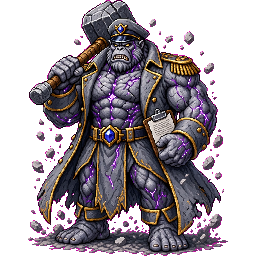
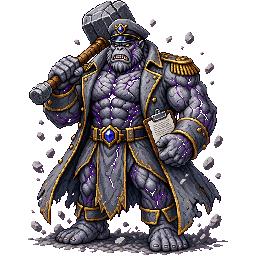
p23: polish — technique ranks in overworld fights (incl. heal/shield caps), richer overworld gold, small non-blocking toasts, clean Ruin sprite edge (dbg_demo5)

diff --git a/pkbattle.js b/pkbattle.js
@@ -17,7 +17,7 @@ const MOVE_TYPE=t=>FF.TECH[t]&&FF.TECH[t].ty?FF.TECH[t].ty:FF.KIT.Light.includes
 const PB={Body:{hp:.85,dm:.85},Force:{hp:.9,dm:.9},Light:{hp:1.18,dm:1.18},Mass:{hp:1.28,dm:1.28}};
 function moves(path,L,slots){ return ['Attack'].concat((slots||FF.STARTERS[path]).filter(t=>FF.TECH[t]).slice(0,3)); } // Attack + up to 3 slotted
 function newBattle(o){ const p=FF.PATHS[o.path], L=o.L, rng=o.rng||Math.random;
-  const GO=o.gear&&typeof o.gear==='object'?o.gear:{hp:o.gear||0,atk:o.gear||0,mat:o.gear||0}; const me={name:o.name||'You',path:o.path,em:p.em,L,mx:Math.round(PB[o.path].hp*300*Math.max(1.05,p.hp)*1.45*sc(L)*(1+(GO.hp||0))),mmp:Math.round(100*p.mp*sc(L)*(1+(GO.mp||0))),atk:Math.round(80*p.atk*sc(L)*(1+(GO.atk||0))),mat:Math.round(80*p.mat*sc(L)*(1+(GO.mat||0))),spd:p.spd+1+(GO.spd||0),shield:0,dr:0,crit:0,dodge:0,cd:{}};
+  const GO=o.gear&&typeof o.gear==='object'?o.gear:{hp:o.gear||0,atk:o.gear||0,mat:o.gear||0}; const me={name:o.name||'You',path:o.path,em:p.em,L,mx:Math.round(PB[o.path].hp*300*Math.max(1.05,p.hp)*1.45*sc(L)*(1+(GO.hp||0))),mmp:Math.round(100*p.mp*sc(L)*(1+(GO.mp||0))),atk:Math.round(80*p.atk*sc(L)*(1+(GO.atk||0))),mat:Math.round(80*p.mat*sc(L)*(1+(GO.mat||0))),spd:p.spd+1+(GO.spd||0),shield:0,dr:0,crit:0,dodge:0,cd:{},rk:o.ranks||{}};
   me.hp=Math.max(1,Math.round((o.hpFrac??1)*me.mx)); me.mp=Math.round((o.mpFrac??1)*me.mmp); me.moves=moves(o.path,L,o.slots);
   const B=o.trainer?Object.assign({},TRAINER_BEAST,{hp:REN[o.path][0],atk:REN[o.path][1]}):(o.beasts&&o.beasts.length?o.beasts:BEASTS)[Math.floor(rng()*(o.beasts&&o.beasts.length?o.beasts:BEASTS).length)], bl=Math.max(1,L+(o.lvB||0)+(o.trainer?0:Math.floor(rng()*3)-1));
   const foe={name:B.n,em:B.em,ty:B.ty,L:bl,mx:Math.round(420*B.hp*sc(bl)*(o.trainer?1:(.98+.008*(L-1)))),atk:Math.round(54*B.atk*sc(bl)*(o.trainer?1:(.98+.008*(L-1)))),spd:B.spd,mv:B.mv,slow:0}; foe.mx=Math.round(foe.mx*(globalThis.DEMO_K||1)); foe.atk=Math.round(foe.atk*(globalThis.DEMO_K||1)); foe.hp=foe.mx;
@@ -31,9 +31,9 @@ function turn(b,act){ const L=[], me=b.me, f=b.foe; b.turn++;
   const mine=()=>{ if(act.k==='run'){ b.runs++; const ch=Math.min(1,me.spd/f.spd*.55+.25*b.runs); if(b.trainer){ say("No! There's no running from a trainer battle!"); return; } if(b.rng()<ch){ say('Got away safely!'); b.over=true; b.result='run'; } else say("Can't escape!"); return; }
     if(act.k==='meditate'){ const g=Math.round(.15*me.mmp); me.mp=Math.min(me.mmp,me.mp+g); say(`${me.name} used Focus Breathing! Regained ${g} MP.`); return; }
     if(act.k==='item'){ if(!(b.bag[act.t]>0)){ say(`No ${act.t} left!`); return; } b.bag[act.t]--; if(act.t==='Healing Potion'){ const h=Math.round(.5*me.mx); me.hp=Math.min(me.mx,me.hp+h); say(`${me.name} used a Healing Potion! Recovered ${h} HP.`); } else { const m=Math.round(.3*me.mmp); me.mp=Math.min(me.mmp,me.mp+m); say(`${me.name} used a Focus Crystal! Regained ${m} MP.`); } return; }
-    const t=act.t, T=FF.TECH[t]||{pw:1,phys:1}, c=cost(b,t); if(me.mp<c){ say(`Not enough mana for ${t}!`); return; } if((me.cd[t]||0)>b.turn){ say(`${t} is still recharging!`); return; } if(T.cd) me.cd[t]=b.turn+T.cd; me.mp-=c; say(`${me.name} used ${t}!`);
-    if(T.fx==='heal'){ const h=Math.min(Math.round(.35*me.mx),Math.round(me.mat*T.pw)); me.hp=Math.min(me.mx,me.hp+h); say(`${me.name} recovered ${h} HP!`); return; }
-    if(T.fx==='shield'){ me.shield=Math.min(Math.round(.35*me.mx),Math.round(me.mat*T.pw)); say(`A radiant shield absorbs ${me.shield} damage!`); return; }
+    const t=act.t, T0=FF.TECH[t]||{pw:1,phys:1}, rk=(me.rk&&me.rk[t])||1, T=rk>1?Object.assign({},T0,{pw:(T0.pw||1)*(1+.15*(rk-1))}):T0, c=cost(b,t); if(me.mp<c){ say(`Not enough mana for ${t}!`); return; } if((me.cd[t]||0)>b.turn){ say(`${t} is still recharging!`); return; } if(T.cd) me.cd[t]=b.turn+T.cd; me.mp-=c; say(`${me.name} used ${t}${rk>1?' (rank '+rk+')':''}!`);
+    if(T.fx==='heal'){ const h=Math.min(Math.round(.35*me.mx*(1+.15*(rk-1))),Math.round(me.mat*T.pw)); me.hp=Math.min(me.mx,me.hp+h); say(`${me.name} recovered ${h} HP!`); return; }
+    if(T.fx==='shield'){ me.shield=Math.min(Math.round(.35*me.mx*(1+.15*(rk-1))),Math.round(me.mat*T.pw)); say(`A radiant shield absorbs ${me.shield} damage!`); return; }
     if(T.fx==='dr'){ me.dr=3; say(`${me.name}'s skin turned to stone!`); return; } if(T.fx==='regen'){ me.regen=3; me.regenAmt=Math.round(me.mat*T.pw); say(`${me.name} draws strength from the earth!`); return; }
     if(T.fx==='crit'){ me.crit=1; say(`${me.name} is focusing on a weak point!`); return; } if(T.fx==='dodge'||T.fx==='dodge25'){ me.dodge=1; say(`${me.name}'s form flows like water!`); return; }
     const ty=MOVE_TYPE(t), r=dmgTo(b,T.phys||t==='Attack'?me.atk:me.mat,T.pw||1,ty,f.ty); let d=Math.round(r.d*PB[me.path].dm); if(me.crit&&(T.phys||t==='Attack')){ d*=2; me.crit=0; r.crit=1; }
@@ -72,13 +72,13 @@ if(typeof document!=='undefined'){
  function grid(items,sel){ return `<div class=pkm>${items.map((it,i)=>`<div class="pki ${i===cur?'on':''}" onclick="PK._tap(${i})">${i===cur?'▶':'&nbsp;'}${it}</div>`).join('')}</div>`; }
  function showMain(){ menu='main'; cur=Math.min(cur,3); $('#pkt').innerHTML=`<div class=pktx2>What will<br>${b.me.name} do?</div>`+grid(MAIN); }
  function showMoves(){ menu='moves'; const ms=b.me.moves; cur=Math.min(cur,ms.length-1); const t=ms[cur];
-  $('#pkt').innerHTML=grid(ms.map(m=>m.replace('Combat Insight','Insight').replace('Afterimage Stance','Afterimage')))+`<div class=pkinfo>TYPE/ ${api.MOVE_TYPE(t)}<br>MP ${api.cost(b,t)}/${b.me.mp}</div>`; }
+  $('#pkt').innerHTML=grid(ms.map(m=>m.replace('Combat Insight','Insight').replace('Afterimage Stance','Afterimage')))+`<div class=pkinfo>TYPE/ ${api.MOVE_TYPE(t)}${(b.me.rk&&b.me.rk[t]||1)>1?' · R'+b.me.rk[t]:''}<br>MP ${api.cost(b,t)}/${b.me.mp}</div>`; }
  function showItems(){ menu='items'; const ks=['Healing Potion','Focus Crystal']; cur=Math.min(cur,1); $('#pkt').innerHTML=grid(ks.map(k=>k+' ×'+(b.bag[k]||0))); }
  function choose(i){ if(menu==='main'){ cur=i; if(i===0){ cur=0; return showMoves(); } if(i===1){ cur=0; return showItems(); } if(i===2) return act({k:'meditate'}); return act({k:'run'}); }
   if(menu==='moves'){ const t=b.me.moves[i]; if(!t) return; if(b.me.mp<api.cost(b,t)){ cur=i; return showMoves(); } return act({k:'move',t}); }
   if(menu==='items'){ const k=['Healing Potion','Focus Crystal'][i]; if(!(b.bag[k]>0)) return; return act({k:'item',t:k}); } }
  function act(a){ cur=0; menu='text'; push(api.turn(b,a)); }
- function A(){ if(menu==='text') return next(); choose(cur); }
+ function A(){ if(!document.querySelector('#pkt')) return; if(menu==='text') return next(); choose(cur); }
  function Bk(){ if(menu==='moves'||menu==='items'){ cur=0; showMain(); } else if(menu==='text') next(); }
  function pad(d){ if(menu==='text') return; const n=menu==='main'?4:menu==='moves'?b.me.moves.length:2; const m={left:-1,right:1,up:-2,down:2}[d]; const c=cur+m; if(c>=0&&c<n) cur=c; menu==='main'?showMain():menu==='moves'?showMoves():showItems(); }
  function finish(){ if(b.rewarded){ menu='done'; return api.onExit&&api.onExit(b); } b.rewarded=1; const extra=cb(b)||[]; q.push(...extra.map(t=>({t}))); menu='text'; next(); }

diff --git a/demo.js b/demo.js
@@ -3,7 +3,7 @@
 // Demo compression: each Meditate ends one in-game day (Mon–Fri), Saturday is boss day, so the whole "month" fits in 1–3 hours.
 (function(root){
 const GR=root.GEAR||(typeof require!=='undefined'?require('./gear.js'):null);
-const K=0.7, REALMS=['Qi Gathering','Foundation','Core','Nascent'], SAVE='dbg_demo4';
+const K=0.7, REALMS=['Qi Gathering','Foundation','Core','Nascent'], SAVE='dbg_demo5';
 const WEEKS=[{realm:'Qi Gathering',mode:'world',label:'Explore the overworld',hint:'Win wild-beast battles (40 XP each) or beat Scout Ren.',why:'A cultivator without Qi is just a donor. Every beast you beat is strength the Collective can’t requisition.'},
  {realm:'Foundation',mode:'htl',label:'Hold the Line',hint:'Clear 2 waves (50 XP each).',why:'The Collective is marching on Sect Town. The Gate is the only thing between the refugees and the next Five-Year Plan.'},
  {realm:'Core',mode:'sect',label:'Sect Conquest',hint:'Win 2 squad battles (50 XP each).',why:'Every sect you free is one less army under a red banner when the final war comes.'},
@@ -81,7 +81,7 @@ const TUT={hub:['🏯 <b>Your sect, day by day</b>','Each realm is one week: fiv
  nas:['🗺 <b>The War for the Map</b>','Tap your hex, then an adjacent gray or rival hex to attack. End Attacks to move troops, then End Turn.','Daily XP: play 2 rounds. When the last gray hex falls, rivals can keep fighting each other until Saturday.','On Saturday the board closes and all four of you face Comrade Ruin until he falls.']};
 function tut(k,force){ const d=D(); if(!d) return; d.tut=d.tut||{}; if(!force&&d.tut[k]) return; const T=TUT[k]; if(!T) return; pop(`<div style="font-size:19px;margin-bottom:6px">${T[0]}</div><ul>${T.slice(1).map(x=>`<li>${x}</li>`).join('')}</ul>`,()=>{ d.tut[k]=1; save(); }); }
 function pop(html,done){ const o=document.createElement('div'); o.id='dtut'; o.innerHTML=`<div class=dtc>${html}<button class=dgo id=dtok>Got it</button></div>`; const old=$('#dtut'); if(old) old.remove(); document.body.appendChild(o); o.querySelector('#dtok').addEventListener('click',()=>{ o.remove(); done&&done(); }); }
-function toast(t){ const o=document.createElement('div'); o.className='dtoast'; o.textContent=t; document.body.appendChild(o); setTimeout(()=>o.remove(),1800); }
+function toast(t){ document.querySelectorAll('.dtoast').forEach(x=>x.remove()); const o=document.createElement('div'); o.className='dtoast'; o.textContent=t; document.body.appendChild(o); setTimeout(()=>o.remove(),1400); }
 const MODEN={world:'Overworld',htl:'Hold the Line',sect:'Sect Conquest',nas:'War for the Map'};
 function barText(){ const d=D(), c=st.c, live=d.playing===curMode(), g=st.qi.gold; let t=`${DAYS[Math.min(5,d.d)]} · Wk ${d.week+1}/4 · ${c.realm} ${c.level} · 💰 ${g}g · `;
  if(mode==='nas'){ const G=st.nas2; return t+(G?(G.ruinFell?'⚔ Rivals’ war':'Gray hexes '+G.hex.filter(h=>h.o===4).length)+` · Rounds today ${Math.max(0,G.round-(d.nasR0||1))}/2`:''); }
@@ -123,7 +123,7 @@ body.demo .hrow,body.demo #app>.row:first-child,body.demo #app>.big:first-child{
 #dq{position:fixed;top:8px;right:8px;z-index:100000;width:44px;height:44px;border-radius:22px!important;background:#fc6!important;color:#222!important;font-size:22px;padding:0;margin:0;box-shadow:0 2px 8px #0008}
 #dtut{position:fixed;inset:0;background:#000b;z-index:100001;display:flex;align-items:center;justify-content:center;padding:16px}.dtc{background:linear-gradient(135deg,#1d2433,#2a1f33);border:2px solid #fc6;border-radius:14px;padding:16px;color:#eee;max-width:380px;font-size:15px;line-height:1.45;max-height:90vh;overflow:auto}.dtc ul{padding-left:18px;margin:6px 0 10px}.dtc li{margin:5px 0}
 .dsl{display:flex;justify-content:space-between;align-items:center;gap:6px;background:#222838;border-radius:8px;padding:6px 8px;margin:3px 0;color:#eee}.dbuy{background:#2a7!important;color:#fff!important;min-width:96px;font-size:15px}.dbuy:disabled{background:#444!important;color:#999!important}.dsell{background:#a63!important}
-.dtoast{position:fixed;left:50%;bottom:28px;transform:translateX(-50%);background:#2a7;color:#fff;padding:10px 16px;border-radius:20px;z-index:100002;font-weight:700;box-shadow:0 3px 10px #000a}
+.dtoast{position:fixed;left:50%;transform:translateX(-50%);top:calc(6px + env(safe-area-inset-top));max-width:60vw;background:#1f6f4acc;color:#fff;padding:4px 10px;border-radius:12px;z-index:100002;font:600 12px system-ui;box-shadow:0 2px 6px #0007;pointer-events:none;white-space:nowrap;overflow:hidden;text-overflow:ellipsis;animation:dtin .2s}@keyframes dtin{from{opacity:0}}
 .pd{position:relative;height:330px;background:radial-gradient(circle at 50% 45%,#2c3550,#141826);border-radius:14px;margin:6px 0;border:1px solid #445}.pd .sil{position:absolute;left:50%;top:50%;transform:translate(-50%,-50%);height:210px;opacity:.95}
 .ps{position:absolute;width:31%;min-height:58px;background:#1a1f2ecc;border:2px solid #556;border-radius:10px;padding:4px 5px;font-size:11px;color:#ddd;text-align:center;line-height:1.2;min-width:0}.ps b{display:block;font-size:10px;color:#9ab;letter-spacing:1px;text-transform:uppercase}.ps.sel{box-shadow:0 0 0 3px #fc6}
 .bg{display:grid;grid-template-columns:repeat(4,1fr);gap:5px}.bg div{background:#222838;border:2px solid #445;border-radius:8px;min-height:60px;padding:4px;font-size:10.5px;color:#ddd;text-align:center;line-height:1.15;word-break:break-word}.bg .sel{box-shadow:0 0 0 3px #fc6}.bg .ic{font-size:20px;display:block}

diff --git a/index.html b/index.html
@@ -18,7 +18,7 @@ input,select,textarea{font-size:16px;padding:6px;width:100%;box-sizing:border-bo
 .row{display:flex;flex-wrap:wrap;align-items:center}.big{font-size:22px;font-weight:bold}h2{margin:6px 0}
 .nsb{background:radial-gradient(circle at 30% 20%,#2b2f3d,#12141b 70%),repeating-linear-gradient(45deg,#0000 0 6px,#ffffff05 6px 7px);border-radius:10px;padding:6px;color:#eee;user-select:none;-webkit-user-select:none;touch-action:manipulation}.nhud{font:13px sans-serif;padding:4px 2px}.nmap{position:relative}.nban{position:absolute;left:8%;right:8%;top:40%;text-align:center;background:#000c;color:#fff;font:bold 18px sans-serif;padding:8px;border-radius:20px}.nbar{display:flex;align-items:center;gap:6px;background:#0008;border-radius:20px;padding:6px 8px;margin-top:4px}.nmsg{flex:1;font:14px sans-serif}.npill{border-radius:20px;padding:8px 14px;margin:0;background:#ff8fb8;color:#111;font-weight:bold;border:0}.nmob{background:#c9a3ff}.nsum{font:12px sans-serif;padding:6px 2px}</style></head><body><div id="app"></div>
 <script src="logic.js"></script><script src="nascent.js"></script><script src="htl2.js"></script><script src="ff.js"></script><script src="pkbattle.js"></script><script src="world.js"></script><script src="weekend.js"></script><script src="wkui.js"></script><script src="gear.js"></script><script src="spr.js"></script><script src="demo.js"></script><script>
-const $=s=>document.querySelector(s); let showCov=true, aa=null, G=null; let SKEY=location.hash==='#demo'?'dbg_demo4':'dbg_p1'; let st=JSON.parse(localStorage.getItem(SKEY)||'null')||{c:null,rounds:[]};  let w=null, sel=null, timerI=null;
+const $=s=>document.querySelector(s); let showCov=true, aa=null, G=null; let SKEY=location.hash==='#demo'?'dbg_demo5':'dbg_p1'; let st=JSON.parse(localStorage.getItem(SKEY)||'null')||{c:null,rounds:[]};  let w=null, sel=null, timerI=null;
 const save=()=>localStorage.setItem(SKEY,JSON.stringify(st));
 function log(lines){ st.c.log=(st.c.log||[]).concat(lines).slice(-80); save(); }
 function view(h){ $('#app').innerHTML=h; }
@@ -250,9 +250,9 @@ function worldOpen(){ st.world=st.world||{}; const maps=st.demo?Demo.maps():['to
 function worldMap(m){ if(st.world.map===m) return; World.stop(); st.world={map:m,beaten:st.world.beaten,pk:st.world.pk}; save(); worldOpen(); }
 function worldBattle(kind,npcId){ const q=qiState(), c=st.c, s=st.world, path=FF.ROLE2PATH[c.role]||'Body', pk=s.pk||[1,1];
  view(`<div id=pkv></div>`);
- PK.start($('#pkv'),{name:c.name||'You',path,L:c.level,trainer:kind==='trainer',hpFrac:pk[0]>0?pk[0]:1,mpFrac:pk[1],bag:q.bag,gear:st.demo?Demo.gx():(q.gear?q.gear.bonus:0),slots:q.slots,beasts:kind==='trainer'?null:World.map.beasts,lvB:World.map.lvB||0},b=>{
+ PK.start($('#pkv'),{ranks:st.demo?Demo.ranks():null,name:c.name||'You',path,L:c.level,trainer:kind==='trainer',hpFrac:pk[0]>0?pk[0]:1,mpFrac:pk[1],bag:q.bag,gear:st.demo?Demo.gx():(q.gear?q.gear.bonus:0),slots:q.slots,beasts:kind==='trainer'?null:World.map.beasts,lvB:World.map.lvB||0},b=>{
   q.bag=Object.assign({},b.bag); s.pk=[b.me.hp/b.me.mx,b.me.mp/b.me.mmp]; const lines=[];
-  if(b.result==='win'){ const xp=Math.max(0,Math.min(40,DBG.XP_GOAL-c.xpToday)), gold=Math.round((b.trainer?8+Math.floor(Math.random()*5):2+Math.floor(Math.random()*3))*(st.demo?3*(1+(st.c.realmIdx||0)):1));
+  if(b.result==='win'){ const xp=Math.max(0,Math.min(40,DBG.XP_GOAL-c.xpToday)), gold=st.demo?Math.round((b.trainer?40+Math.floor(Math.random()*11):16+Math.floor(Math.random()*9))*(1+(st.c.realmIdx||0))):(b.trainer?8+Math.floor(Math.random()*5):2+Math.floor(Math.random()*3));
    c.xpToday+=xp; q.gold+=gold; lines.push(xp?`${c.name||'You'} gained ${xp} XP!`:'Daily XP goal already met.'); lines.push(`Got ${gold} gold!`);
    if(Math.random()<.3||b.trainer){ const m=b.foe.name+' '+(b.trainer?'Banner Fang':['Pelt','Core','Scale','Feather'][Math.floor(Math.random()*4)]); q.inv.push({k:'material',n:m,val:(b.trainer?20:6)*(1+(World.map.lvB||0))}); lines.push(`Found ${m}! (sell it in the Shop)`); }
    if(xp&&c.xpToday>=DBG.XP_GOAL) lines.push('Daily XP goal reached! Meditate to grow your Qi.');
@@ -263,6 +263,6 @@ function worldBattle(kind,npcId){ const q=qiState(), c=st.c, s=st.world, path=FF
   ()=>worldOpen()); }
 
 function wkStart(x){ const c=st.c||{}; WKUI.open({...(x||{}),path:FF.ROLE2PATH[c.role]||'Body',name:c.name||'You',slots:st.qi&&st.qi.slots,back:()=>{ if(location.hash==='#weekend') history.replaceState(null,'',location.pathname); st.c?day():create(); }}); }
-if(SKEY==='dbg_demo4'&&!st.demo) st.demo=Demo.init(); if(st.demo) globalThis.DEMO_K=Demo.K;
+if(SKEY==='dbg_demo5'&&!st.demo) st.demo=Demo.init(); if(st.demo) globalThis.DEMO_K=Demo.K;
 location.hash==='#weekend'?(st.c?day():create(),wkStart()):st.c?(location.hash==='#nascent'?nasStart():day()):create();
 </script></body></html>

diff --git a/ff.js b/ff.js
@@ -80,8 +80,8 @@ function act(b){ // executes next queued action; returns {actor, line, ev:[{id,t
         if(T.fx==='mana'){ const g=Math.round(.15*u.mmp); u.mp=Math.min(u.mmp,u.mp+g); ev.push({id:u.id,txt:'+'+g+' MP',c:'#6cf'}); }
         else if(T.fx==='crit'){ u.crit=1; line+=' (next Fight crits)'; } else if(T.fx==='dodge'){ u.dodge=1; } else if(T.fx==='dodge25'){ u.dodge25=2; }
         else if(T.tg==='ally'){ const t=retarget(b,u,c.tgt,0);
-          if(T.fx==='shield'){ t.shield=Math.min(Math.round(.35*t.mx),Math.round(u.mat*T.pw)); ev.push({id:t.id,txt:'Shield '+t.shield,c:'#ff6'}); }
-          if(T.fx==='heal'){ const h=Math.min(Math.round(.35*t.mx),Math.round(u.mat*T.pw)); t.hp=Math.min(t.mx,t.hp+h); const mm=Math.round(h*.25); t.mp=Math.min(t.mmp,t.mp+mm); ev.push({id:t.id,txt:'+'+h,c:'#6f6'}); }
+          if(T.fx==='shield'){ t.shield=Math.min(Math.round(.35*t.mx*RK),Math.round(u.mat*T.pw)); ev.push({id:t.id,txt:'Shield '+t.shield,c:'#ff6'}); }
+          if(T.fx==='heal'){ const h=Math.min(Math.round(.35*t.mx*RK),Math.round(u.mat*T.pw)); t.hp=Math.min(t.mx,t.hp+h); const mm=Math.round(h*.25); t.mp=Math.min(t.mmp,t.mp+mm); ev.push({id:t.id,txt:'+'+h,c:'#6f6'}); }
           if(T.fx==='dr'){ t.dr=3; ev.push({id:t.id,txt:'Stone Skin',c:'#ccc'}); } if(T.fx==='regen'){ t.regen=3; t.regenAmt=Math.round(u.mat*T.pw); ev.push({id:t.id,txt:'Regen',c:'#6f6'}); } line+=' → '+t.name; }
         else if(T.tg==='all'){ alive(foes).forEach(t=>{ const d=hit(b,u,t,T.pw,T.phys,ev); if(T.slow&&d!=='dodged') t.slow=1; }); }
         else { const t=retarget(b,u,c.tgt,1); const d=hit(b,u,t,T.pw,T.phys,ev); if((T.slow||c.t==='Kick')&&d!=='dodged') t.slow=1; line+=` → ${t.name}: ${d==='dodged'?'miss':d+' DMG'}`; } } }

diff --git a/weekend.js b/weekend.js
@@ -78,8 +78,8 @@ function act(g,u,t,tgt){ const i=techInfo(u,t), c=tcost(u,t); u.mp-=c; if(i.cd) 
  if(i.tg==='foe'||i.tg==='all'){ hitBoss(g,u,i.pw,i.phys,t); if(i.bind){ const push=Math.round(35*(1+(u.ctl||0))); g.atb.boss=(g.atb.boss||0)-push; u.sc.con+=Math.round(avgHit(g)*(1+(u.ctl||0))); g.ev.push({t:'msg',s:'Binding Seal! '+g.def.name+'’s turn gauge is pushed back.'}); }
   if(i.slow){ g.slow=2+(g.cover?1:0)+((u.ctl||0)>=.15?1:0); u.sc.con+=Math.round(.25*avgHit(g)*2); g.ev.push({t:'fx',id:'boss',k:'slow'},{t:'msg',s:'The Monarch is slowed!'}); } return; }
  const a=tgt||u; g.ev.push({t:'fx',id:a.id,k:i.fx});
- const HK=u.healK||1; if(i.fx==='heal'){ const v=heal(g,u,a,Math.min(i.pw*u.mat*1.1*HK,a.mx*(.35+.1*(HK-1)))); a.mp=Math.min(a.mmp,a.mp+Math.round(v*.25)); }
- else if(i.fx==='shield'){ a.buf.shield=Math.round(Math.min(i.pw*u.mat*1.1*HK,a.mx*.35)); a.buf.shieldBy=u.id; }
+ const HK=u.healK||1; if(i.fx==='heal'){ const v=heal(g,u,a,Math.min(i.pw*u.mat*1.1*HK,a.mx*(.35+.1*(HK-1))*(1+.15*((i.rk||1)-1)))); a.mp=Math.min(a.mmp,a.mp+Math.round(v*.25)); }
+ else if(i.fx==='shield'){ a.buf.shield=Math.round(Math.min(i.pw*u.mat*1.1*HK,a.mx*.35*(1+.15*((i.rk||1)-1)))); a.buf.shieldBy=u.id; }
  else if(i.fx==='dr') a.buf.dr=3; else if(i.fx==='regen'){ a.buf.regen=3; a.buf.regenV=Math.round(i.pw*u.mat*HK); }
  else if(i.fx==='crit') u.buf.crit=1; else if(i.fx==='dodge') u.buf.dodge=1; else if(i.fx==='dodge25') u.buf.dodge25=2;
  else if(i.fx==='mana'){ const v=Math.min(u.mmp-u.mp,Math.round(u.mmp*.15)); u.mp+=v; u.sc.sus+=v; } }
